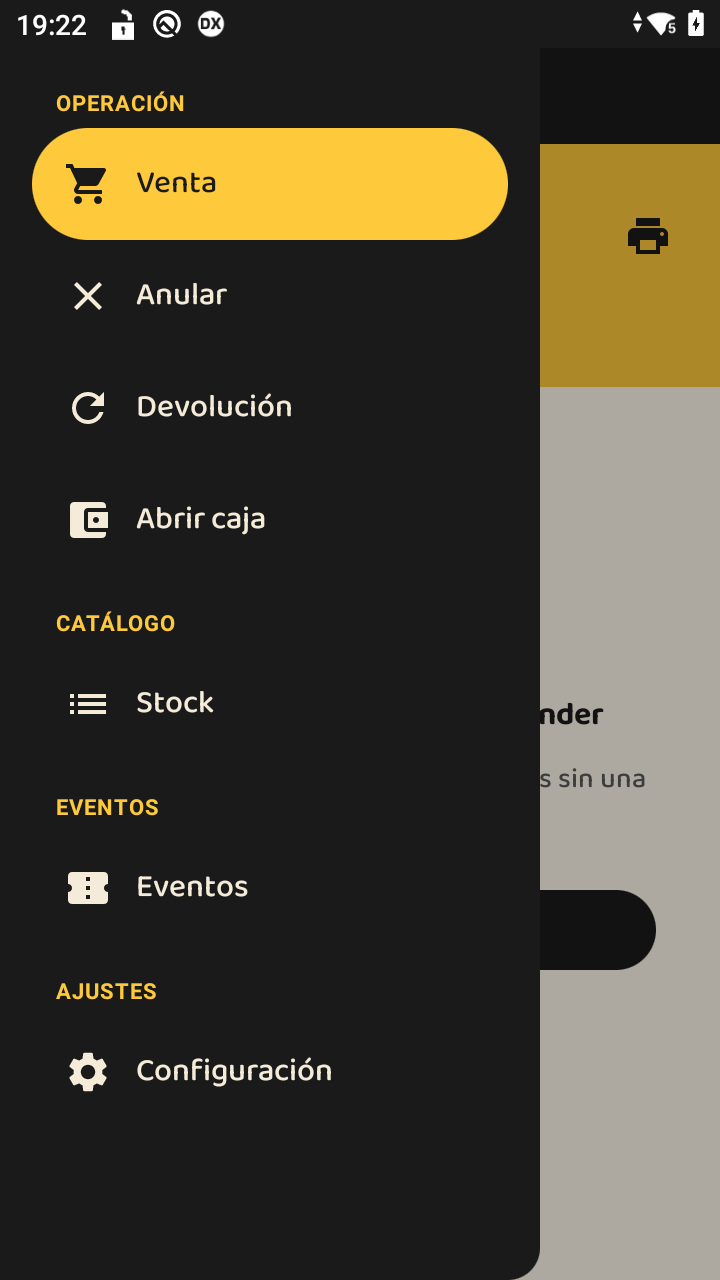
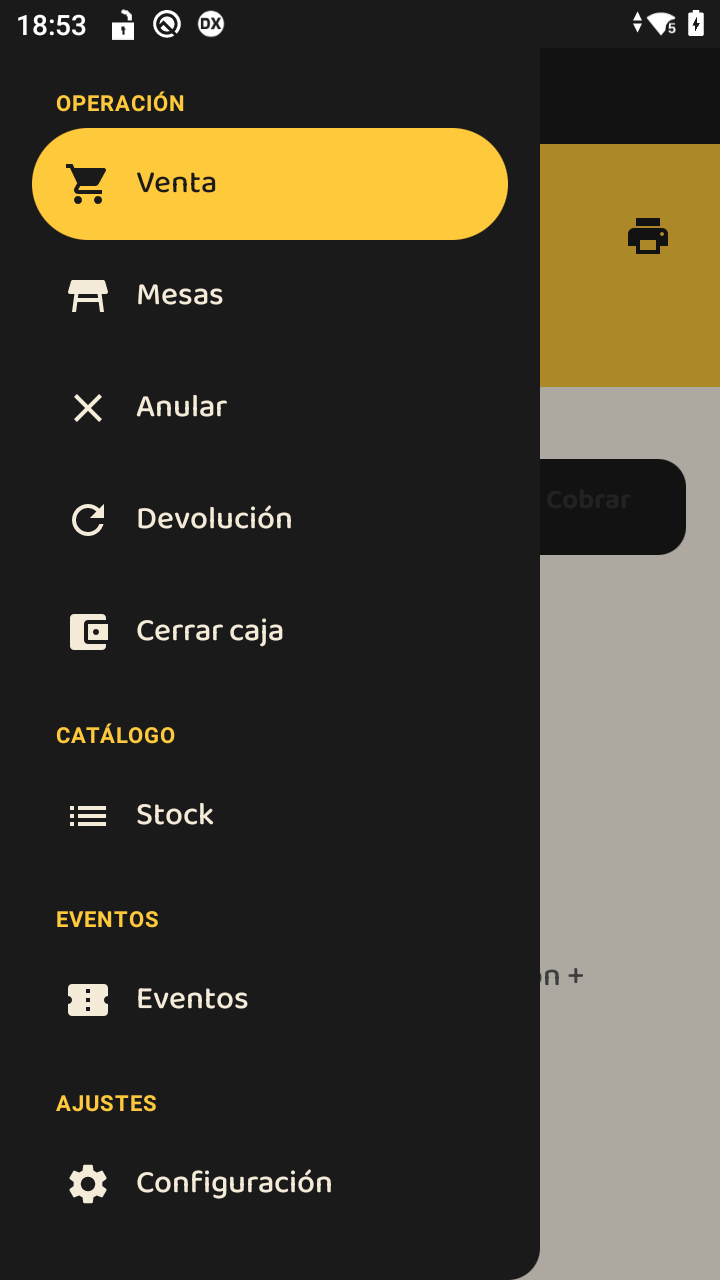
Manuales: Mesas (administrador: Módulos, Mesas y reporte de Propinas; cajero: cargar, cobrar por partes con propina y cerrar)

diff --git a/manuales/manual-administrador.html b/manuales/manual-administrador.html
@@ -44,6 +44,8 @@ blockquote { margin: 16px 0; padding: 8px 16px; border-left: 4px solid var(--ace
 <li><a href="#cajeros">Cajeros</a></li>
 <li><a href="#terminales">Terminales</a></li>
 <li><a href="#temas-de-kaja">Temas de kaja</a></li>
+<li><a href="#m%C3%B3dulos">Módulos</a></li>
+<li><a href="#mesas">Mesas</a></li>
 <li><a href="#eventos-y-entradas">Eventos y entradas</a></li>
 <li><a href="#facturaci%C3%B3n-electr%C3%B3nica-ucfe">Facturación electrónica (UCFE)</a></li>
 <li><a href="#ventas">Ventas</a></li>
@@ -59,7 +61,7 @@ blockquote { margin: 16px 0; padding: 8px 16px; border-left: 4px solid var(--ace
 <h2 id="cómo-está-organizada-la-pantalla">Cómo está organizada la pantalla</h2>
 <p><img src="img/bo-inicio-admin.png" alt="Pantalla inicial del administrador"></p>
 <ul>
-<li><strong>Barra de íconos (izquierda)</strong>: agrupa las secciones. De arriba hacia abajo: <strong>Operación</strong> (ventas, cobrar, caja, terminales, temas), <strong>Catálogo</strong> (productos, promociones, stock), <strong>Gente</strong> (sucursales, cajeros), <strong>Eventos</strong>, <strong>Fiscal</strong> (UCFE, conciliación) y <strong>Reportes</strong>. Al tocar un ícono aparecen sus pestañas al lado.</li>
+<li><strong>Barra de íconos (izquierda)</strong>: agrupa las secciones. De arriba hacia abajo: <strong>Operación</strong> (ventas, cobrar, caja, terminales, mesas, temas, módulos), <strong>Catálogo</strong> (productos, promociones, stock), <strong>Gente</strong> (sucursales, cajeros), <strong>Eventos</strong>, <strong>Fiscal</strong> (UCFE, conciliación) y <strong>Reportes</strong>. Al tocar un ícono aparecen sus pestañas al lado.</li>
 <li><strong>Estado ahora</strong>: el recuadro de arriba a la izquierda muestra cuántas cajas están abiertas hoy, cuántas terminales reportaron y las <strong>alertas</strong> pendientes (diferencias de caja sin revisar, cajas sin cerrar de otro día, productos sin stock). Tocá una alerta para ir a resolverla.</li>
 <li><strong>Buscar</strong>: filtra las filas de las tablas de la pestaña que estás viendo (productos, cajeros, terminales, ventas, caja…).</li>
 <li><strong>Oscuro / Claro</strong>: cambia los colores de la página.</li>
@@ -160,6 +162,25 @@ blockquote { margin: 16px 0; padding: 8px 16px; border-left: 4px solid var(--ace
 <li><strong>Terminales</strong>: marcá terminales y tocá <strong>Enviar este tema a las marcadas</strong> para que usen este tema; <strong>Quitar tema propio a las marcadas</strong> las vuelve al predeterminado. <strong>Usar como predeterminado</strong> lo aplica a todas las terminales sin tema propio.</li>
 </ul>
 <p>Las terminales bajan su tema en la próxima sincronización (cada 15 minutos) o al tocar &quot;Reportar terminal a kaja-bo&quot;.</p>
+<h2 id="módulos">Módulos</h2>
+<p><strong>Operación → Módulos.</strong> Prende o apaga las partes opcionales de kaja-bo y de la app:</p>
+<ul>
+<li><strong>Eventos</strong>: venta y control de entradas.</li>
+<li><strong>Mesas</strong>: cuentas compartidas entre mozos, pagos divididos y propinas (para restaurantes).</li>
+</ul>
+<p><img src="img/bo-modulos.png" alt="Módulos"></p>
+<p>Un módulo apagado no aparece en kaja-bo, y las terminales lo esconden del menú en su próxima sincronización (cada 15 minutos, o enseguida si el cajero toca &quot;Reportar terminal a kaja-bo&quot;).</p>
+<h2 id="mesas">Mesas</h2>
+<p><strong>Operación → Mesas.</strong> Para restaurantes: cada local tiene sus mesas, y los mozos les cargan productos desde cualquier terminal de ese local. Primero prendé el módulo <strong>Mesas</strong> en <a href="#m%C3%B3dulos">Módulos</a>.</p>
+<ol>
+<li>En <strong>Local</strong>, elegí la sucursal.</li>
+<li>Escribí el <strong>Nombre</strong> de la mesa (por ejemplo, &quot;Mesa 1&quot; o &quot;Terraza 2&quot;).</li>
+<li>Tocá <strong>Crear</strong>.</li>
+</ol>
+<p><img src="img/bo-mesas.png" alt="Mesas de un local con sus cuentas abiertas"></p>
+<p>La tabla muestra cada mesa con su <strong>Cuenta</strong>: <strong>Libre</strong>, o el total consumido y cuánto se pagó hasta ahora. Se actualiza sola. <strong>Dar de baja</strong> saca la mesa de las terminales (si tiene una cuenta abierta, sigue hasta que se cierre).</p>
+<p>Cada terminal ve las mesas del local al que está asignada en <a href="#terminales">Terminales</a>: una terminal sin local no ve ninguna.</p>
+<p>Cómo se usan en la terminal (abrir la mesa, cargar productos, cobrar por partes con propina y cerrar): ver el <a href="manual-cajero.html#mesas">manual del cajero</a>. Al cerrar la mesa sale <strong>un solo comprobante</strong> con todos los productos y se descuenta el stock del local. Las propinas de cada mozo se ven en el reporte <a href="#reportes">Propinas</a>.</p>
 <h2 id="eventos-y-entradas">Eventos y entradas</h2>
 <p><strong>Eventos.</strong> Sirve para vender entradas (con QR) y controlarlas en la puerta con la terminal.</p>
 <h3 id="crear-un-evento">Crear un evento</h3>
@@ -209,7 +230,7 @@ blockquote { margin: 16px 0; padding: 8px 16px; border-left: 4px solid var(--ace
 <li><strong>Histórico</strong>: compara los totales por día de lotes ya cerrados.</li>
 </ul>
 <h2 id="reportes">Reportes</h2>
-<p><strong>Reportes</strong> tiene cinco pestañas:</p>
+<p><strong>Reportes</strong> tiene seis pestañas:</p>
 <table>
 <thead>
 <tr>
@@ -237,12 +258,17 @@ blockquote { margin: 16px 0; padding: 8px 16px; border-left: 4px solid var(--ace
 <td><strong>Eventos</strong></td>
 <td>Ingresos y aforo vendido por evento, y el detalle de entradas.</td>
 </tr>
+<tr>
+<td><strong>Propinas</strong></td>
+<td>Por cajero: cuántos pagos de mesas cobró, el monto cobrado (sin la propina) y la propina. Filtrá por <strong>Desde / Hasta</strong>.</td>
+</tr>
 </tbody></table>
 <p><img src="img/bo-reporte-ventas.png" alt="Reporte de ventas y crecimiento"></p>
 <p><img src="img/bo-reporte-catalogo.png" alt="Reporte de catálogo"></p>
 <p><img src="img/bo-reporte-sucursales.png" alt="Reporte de sucursales y cajeros"></p>
 <p><img src="img/bo-reporte-operativo.png" alt="Reporte operativo"></p>
 <p><img src="img/bo-reporte-eventos.png" alt="Reporte de eventos"></p>
+<p><img src="img/bo-reporte-propinas.png" alt="Reporte de propinas"></p>
 
 
 </main>

diff --git a/manuales/manual-cajero.html b/manuales/manual-cajero.html
@@ -31,7 +31,7 @@ blockquote { margin: 16px 0; padding: 8px 16px; border-left: 4px solid var(--ace
 <body>
 <main>
 <h1 id="manual-del-cajero-app-kaja-en-la-terminal">Manual del cajero (app kaja en la terminal)</h1>
-<p>kaja es la app de la terminal de cobro. Con ella el cajero abre y cierra la caja, vende (en efectivo o con tarjeta), anula, devuelve, consulta el stock y vende o controla entradas de eventos.</p>
+<p>kaja es la app de la terminal de cobro. Con ella el cajero abre y cierra la caja, vende (en efectivo o con tarjeta), cobra mesas, anula, devuelve, consulta el stock y vende o controla entradas de eventos.</p>
 <p><a href="../index.html#manuales">← Volver al índice</a></p>
 <ul>
 <li><a href="#configurar-la-terminal">Configurar la terminal</a> (una sola vez, la hace el administrador o el técnico)</li>
@@ -39,6 +39,7 @@ blockquote { margin: 16px 0; padding: 8px 16px; border-left: 4px solid var(--ace
 <li><a href="#el-men%C3%BA">El menú</a></li>
 <li><a href="#abrir-la-caja">Abrir la caja</a></li>
 <li><a href="#vender">Vender</a></li>
+<li><a href="#mesas">Mesas</a> (restaurantes)</li>
 <li><a href="#cerrar-la-caja">Cerrar la caja</a></li>
 <li><a href="#anular-una-venta">Anular una venta</a></li>
 <li><a href="#devoluci%C3%B3n">Devolución</a></li>
@@ -142,7 +143,7 @@ blockquote { margin: 16px 0; padding: 8px 16px; border-left: 4px solid var(--ace
 <p>Tocá las tres rayas (arriba a la izquierda) para abrir el menú:</p>
 <p><img src="img/kaja-menu.png" alt="Menú de la app"></p>
 <ul>
-<li><strong>Operación</strong>: Venta, Anular, Devolución y Abrir/Cerrar caja.</li>
+<li><strong>Operación</strong>: Venta, Mesas, Anular, Devolución y Abrir/Cerrar caja. <strong>Mesas</strong> aparece solo si el comercio usa el módulo de mesas.</li>
 <li><strong>Catálogo</strong>: Stock.</li>
 <li><strong>Eventos</strong>: venta y control de entradas.</li>
 <li><strong>Ajustes</strong>: Configuración.</li>
@@ -180,6 +181,41 @@ blockquote { margin: 16px 0; padding: 8px 16px; border-left: 4px solid var(--ace
 <li><strong>Comprobante fiscal pendiente</strong>: la venta se cobró pero el CFE no se pudo emitir en ese momento. Se reintenta solo; también podés tocar <strong>Reintentar CFE</strong>.</li>
 </ul>
 <p>El ícono de la <strong>impresora</strong> (arriba a la derecha en Venta) imprime un ticket de prueba.</p>
+<h2 id="mesas">Mesas</h2>
+<p>Para restaurantes: varios mozos le cargan productos a la misma mesa, cada uno desde su terminal, y la cuenta se paga en las partes que pidan los clientes. Necesita conexión con kaja-bo, y para cobrar, la caja abierta.</p>
+<p>En el menú tocá <strong>Mesas</strong>. Aparecen las mesas de tu local: las <strong>libres</strong> en blanco y las <strong>ocupadas</strong> en color, con el total consumido (y lo que falta pagar, si ya pagaron una parte). La pantalla se actualiza sola, así ves lo que cargan los otros mozos.</p>
+<p><img src="img/kaja-mesas.png" alt="Mesas del local"></p>
+<h3 id="cargar-productos">Cargar productos</h3>
+<ol>
+<li><p>Tocá una mesa. Si estaba libre, se abre su cuenta.</p>
+</li>
+<li><p>Tocá <strong>Agregar producto</strong>, buscá el producto y tocalo: cada toque agrega una unidad. Tocá <strong>Listo</strong> al terminar.</p>
+<p><img src="img/kaja-mesa-agregar.png" alt="Agregar productos a la mesa"></p>
+</li>
+<li><p>Cada renglón muestra quién lo cargó. Con la <strong>papelera</strong> quitás un producto (no se puede si ya se cobró esa parte de la cuenta).</p>
+</li>
+</ol>
+<p><img src="img/kaja-mesa-detalle.png" alt="Cuenta de la mesa"></p>
+<p><strong>← Mesas</strong> vuelve a la grilla sin cerrar nada: la cuenta queda abierta.</p>
+<h3 id="cobrar-una-parte">Cobrar una parte</h3>
+<p>Cada cliente paga lo que quiere: &quot;yo pongo 100&quot;, &quot;yo el resto&quot;.</p>
+<ol>
+<li>Tocá <strong>Cobrar una parte</strong>.</li>
+<li>En <strong>Monto</strong> aparece lo que falta; cambialo por lo que paga este cliente.</li>
+<li>Elegí la <strong>Propina</strong>: <strong>Sin</strong>, <strong>10%</strong>, <strong>15%</strong> u <strong>Otra</strong> (la escribís a mano).</li>
+<li>Elegí <strong>Efectivo</strong> o <strong>Tarjeta</strong>. Abajo ves el <strong>Total a cobrar</strong> (monto + propina).</li>
+<li>Tocá <strong>Cobrar</strong>. Con tarjeta, pasala por el pinpad cuando lo pida.</li>
+</ol>
+<p><img src="img/kaja-mesa-cobrar.png" alt="Cobrar una parte con propina"></p>
+<p>La pantalla confirma &quot;Cobrado $… + propina $…&quot; y la cuenta muestra <strong>Pagado</strong> y <strong>Falta pagar</strong>. Si dos mozos cobran la misma mesa a la vez, kaja-bo no deja que se cobre más de lo que falta.</p>
+<p>Si algo sale mal:</p>
+<ul>
+<li><strong>Cobro rechazado</strong>: no se cobró nada; podés volver a intentar.</li>
+<li><strong>&quot;ITD no confirmó el cobro. Revisá el pinpad antes de volver a cobrar.&quot;</strong>: fijate en el pinpad si el pago salió antes de cobrar de nuevo.</li>
+<li><strong>&quot;Cobrado, pero no se pudo avisar a kaja-bo: no lo vuelvas a cobrar&quot;</strong>: el cliente ya pagó; no repitas el cobro.</li>
+</ul>
+<h3 id="cerrar-la-mesa">Cerrar la mesa</h3>
+<p>Cuando ya no falta pagar nada, tocá <strong>Cerrar mesa y emitir ticket</strong>: sale <strong>un solo ticket</strong> con todos los productos y el comprobante fiscal, se descuenta el stock y la mesa vuelve a quedar libre. Si abriste una mesa por error y no tiene productos, el botón dice <strong>Liberar mesa</strong>.</p>
 <h2 id="cerrar-la-caja">Cerrar la caja</h2>
 <ol>
 <li>En el menú tocá <strong>Cerrar caja</strong>.</li>
